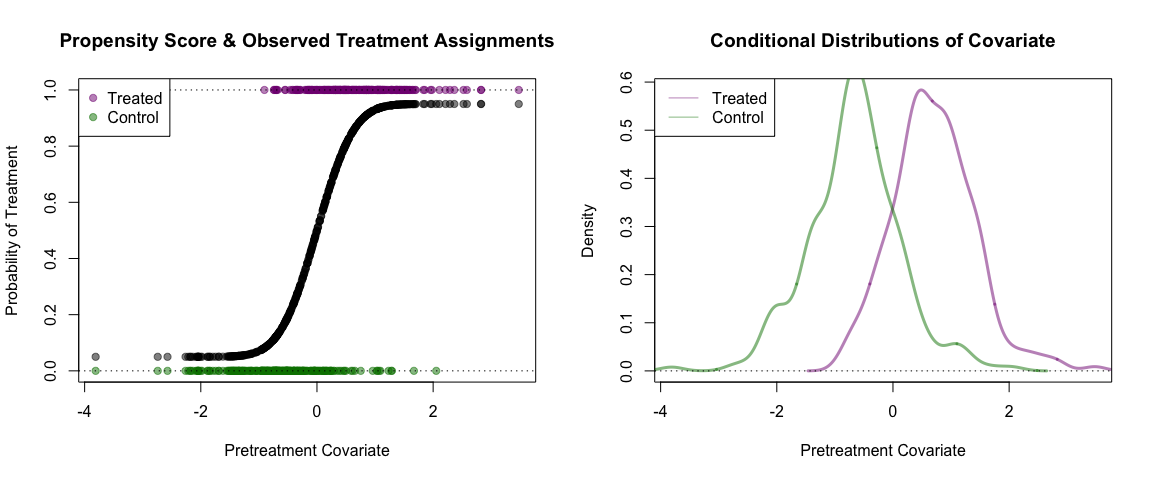
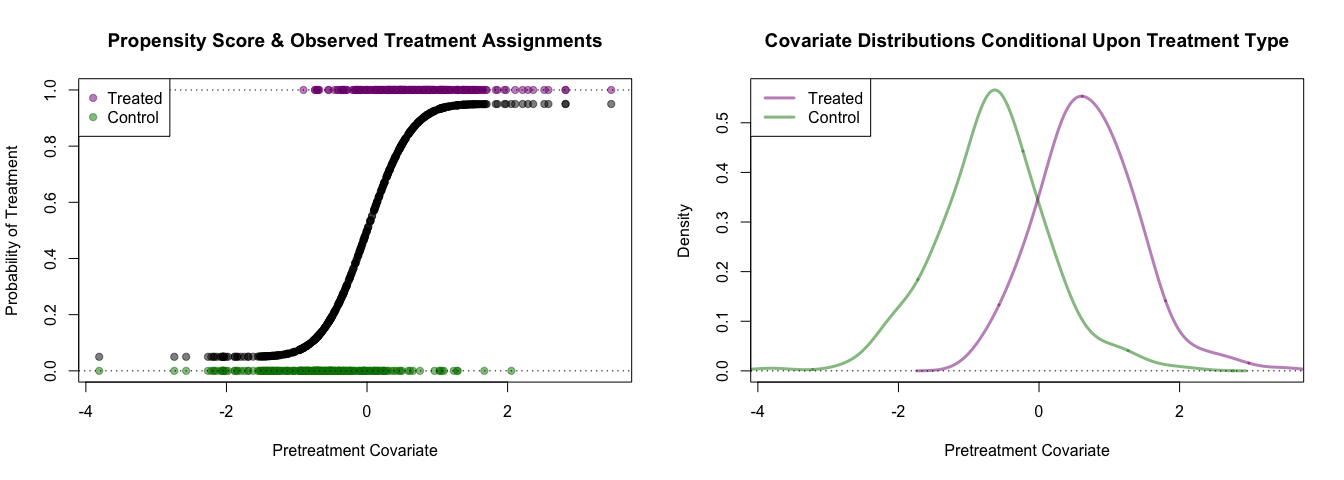
testing testing readme

diff --git a/README.md b/README.md
@@ -59,16 +59,16 @@ points(pretreatment_cov[!as.logical(treatment_assignment)],
 abline(h=c(0,1), lty=3)
 legend('topleft', c('Treated', 'Control'), pch=19, col=c(t_col, c_col), bg='white')
 
-plot(density(pretreatment_cov[as.logical(treatment_assignment)]),
+plot(density(pretreatment_cov[!as.logical(treatment_assignment)], adjust = 1.5),
      xlim=range(pretreatment_cov), 
-     type='l', lwd=3, col=t_col,
+     type='l', lwd=3, col=c_col,
      xlab='Pretreatment Covariate',
      ylab='Density',
-     main='Conditional Distributions of Covariate')
-lines(density(pretreatment_cov[!as.logical(treatment_assignment)]),
-     lwd=3, col=c_col)
+     main='Covariate Distributions Conditional Upon Treatment Type')
+lines(density(pretreatment_cov[as.logical(treatment_assignment)], adjust = 1.5),
+     lwd=3, col=t_col)
 abline(h=c(0,1), lty=3)
-legend('topleft', c('Treated', 'Control'), lty=1, col=c(t_col, c_col), bg='white')
+legend('topleft', c('Treated', 'Control'), lty=1, lwd=3, col=c(t_col, c_col), bg='white')
 ```
 
 ![](README_files/figure-markdown_github/unnamed-chunk-5-1.png)
